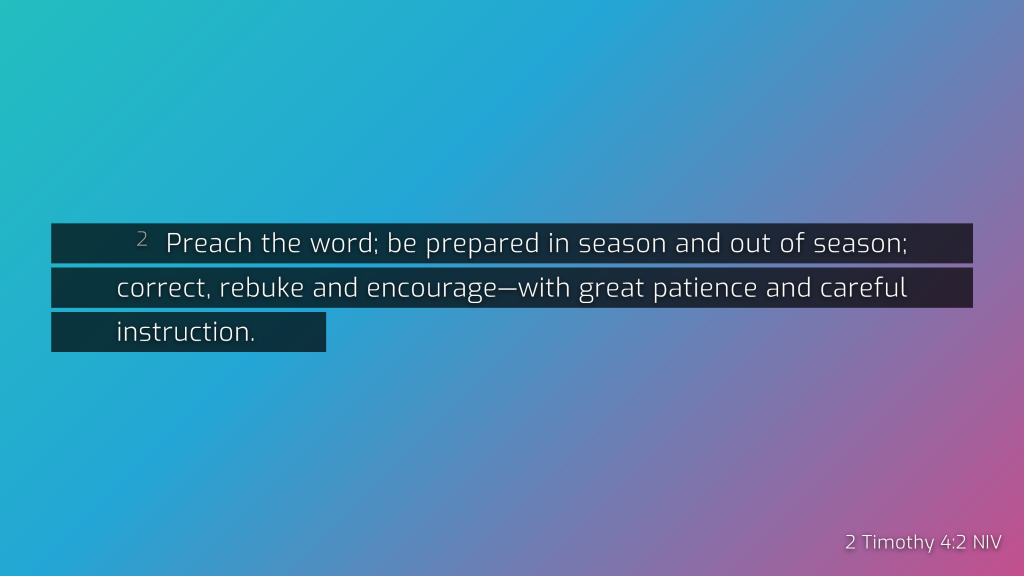
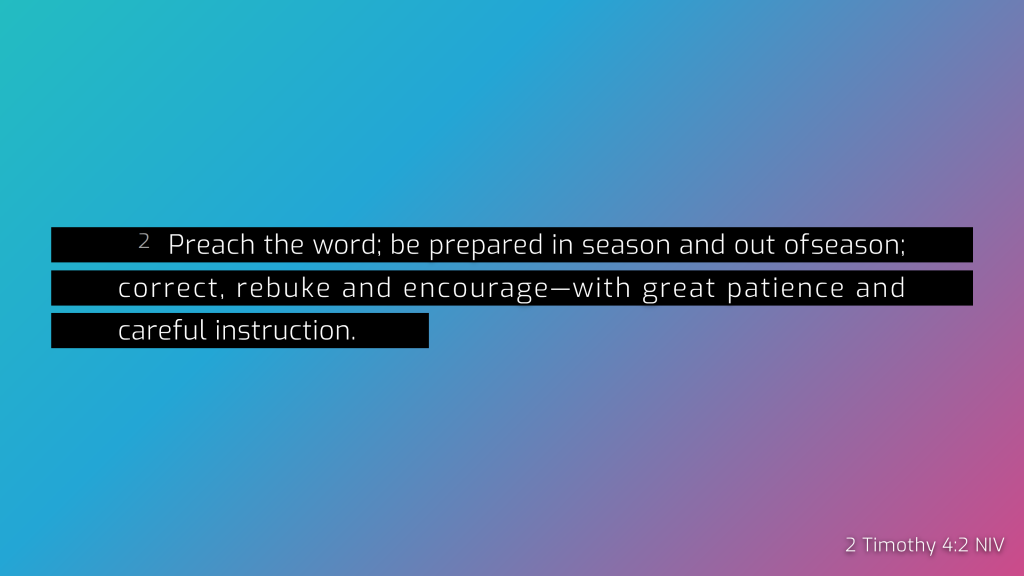
Fixes in striped templates

Changed region(s): [[0.0312, 0.375, 0.9688, 0.625], [0.8125, 0.9062, 1.0, 0.9688]]

diff --git a/backgrounds/animated-gradients.css b/backgrounds/animated-gradients.css
@@ -33,23 +33,33 @@ body {
 		background-position: 0% 50%;
 	}
 }
-/*  Decorative background stripes for text */
 
-#verse, #announcement, #source {
-	font-size: 0.85em;
+/*  Decorative background stripes for text */
+#verse {
+	padding: 0 2.5em;
+	line-height: 1.6em;
 }
 
 #verse > div {
-  box-decoration-break: clone;
-  -webkit-box-decoration-break: clone;
-  background-color: rgba(0, 0, 0, 0.70);
-  line-height: 1.7;
-  padding: 0.1em 2.5em;
+    line-height: 1.5em;
+    display: inline;
+    color: #fff;
+    
+    background: black;
+    box-shadow: 2.5em 0px 0px 0px black, -2.5em 0 0 0px black, -2px 0 0 2px black inset, 2px 0 0 2px black inset;
+	padding-right: 1px;
+	
+    -webkit-box-decoration-break: clone;
+	box-decoration-break: clone;
 }
 
+#verses {
+	font-size: 2.6em;
+}
 
 #verse .label {
-  top: -0.32em;
+  top: -0.28em;
+  font-weight: bold;
 }
 
 .frame {
@@ -57,6 +67,7 @@ body {
 }
 
 /* Decorative box for announcements */
+
 #announcement {
 	padding: 1em 2.5em;
 	text-shadow: none;

diff --git a/backgrounds/snow.css b/backgrounds/snow.css
@@ -5,26 +5,35 @@
 }
 
 #verse .label {
-  color: #717171;
+  color: #505050;
   top: -0.32em;
 }
 
 /*  Decorative background stripes for text */
-#verse, #announcement, #source {
-	font-size: 0.85em;
+#verse {
+	padding: 0 2.5em;
+	line-height: 1.6em;
 }
 
 #verse > div {
-  box-decoration-break: clone;
-  -webkit-box-decoration-break: clone;
-  background-color: rgba(255, 255, 255, 0.84);
-  line-height: 1.7;
-  padding: 0.1em 2.5em;
+    line-height: 1.5em;
+    display: inline;
+    
+    background: white;
+    box-shadow: 2.5em 0px 0px 0px white, -2.5em 0 0 0px white, -2px 0 0 2px white inset, 2px 0 0 2px white inset;
+	padding-right: 1px;
+	
+    -webkit-box-decoration-break: clone;
+	box-decoration-break: clone;
 }
 
+#verses {
+	font-size: 2.6em;
+}
 
 #verse .label {
-  top: -0.32em;
+  top: -0.28em;
+  font-weight: bold;
 }
 
 .frame {
@@ -32,6 +41,7 @@
 }
 
 /* Decorative box for announcements */
+
 #announcement {
 	padding: 1em 2.5em;
 	text-shadow: none;

diff --git a/backgrounds/animated-blobs.css b/backgrounds/animated-blobs.css
@@ -167,7 +167,6 @@ gradient-backdrop {
 .frame {
   max-width: 90%;
 }
-*/
 
 /* Decorative box for announcements */
 
